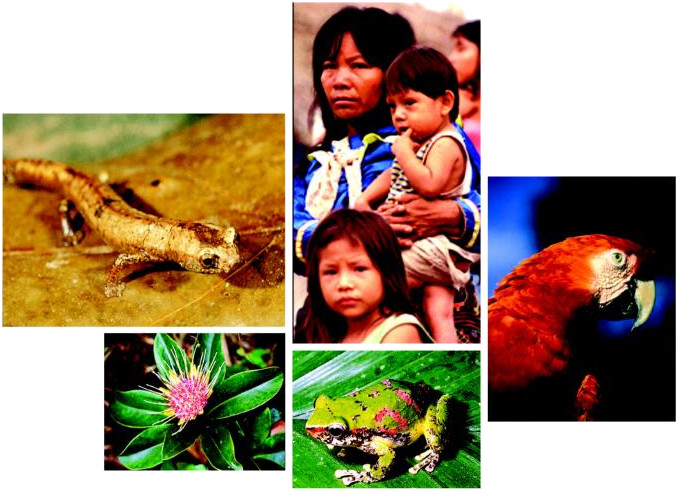
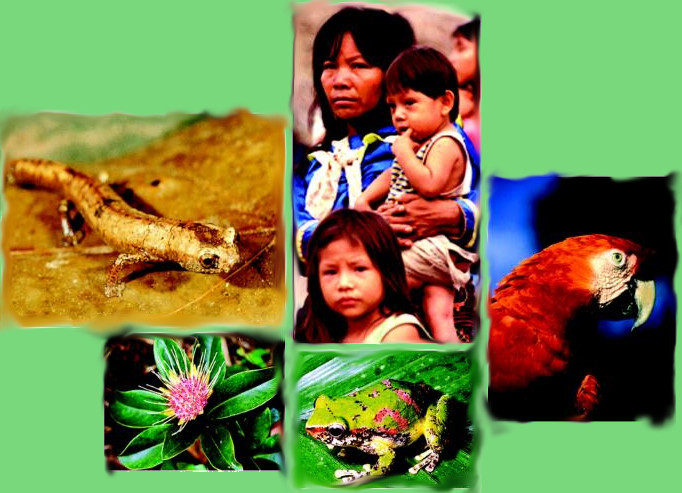
Design changes

diff --git a/views/gis/map.html b/views/gis/map.html
@@ -2,6 +2,8 @@
 <html>
   <head>
     <meta http-equiv="Content-Type" content="text/html; charset=utf-8">
+    <style>
+    </style>
 <!--
     <script src="http://openlayers.org/dev/OpenLayers.js"></script>
 -->
@@ -60,7 +62,10 @@
                     new OpenLayers.Control.Navigation(),
                     new OpenLayers.Control.ScaleLine(),
                     new OpenLayers.Control.LayerSwitcher({
-                        title: 'Ver Capas'
+                        title: 'Ver Capas',
+                        roundedCorner : true,
+
+                        useLegendGraphics : true,
                         })
                 ],
                 //projection: sphericalMProjection,

diff --git a/views/layout_auxiliar.html b/views/layout_auxiliar.html
@@ -68,7 +68,7 @@
   {{block head}}{{end}}
 </head>
 
-<body>
+<body style="background-color:#79d77c">
   <!-- Navbar ================================================== -->
   <div class="navbar navbar-inverse navbar-fixed-top">
     <div class="flash">{{=response.flash or ''}}</div>
